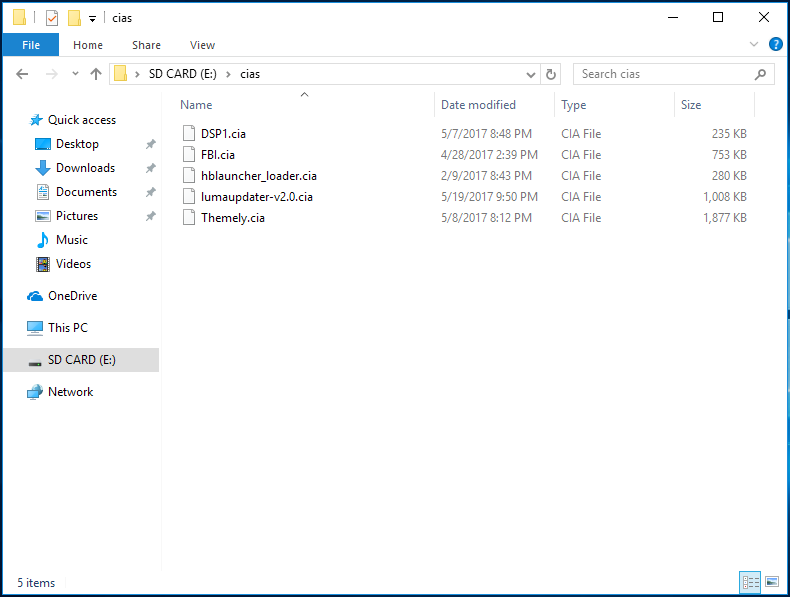
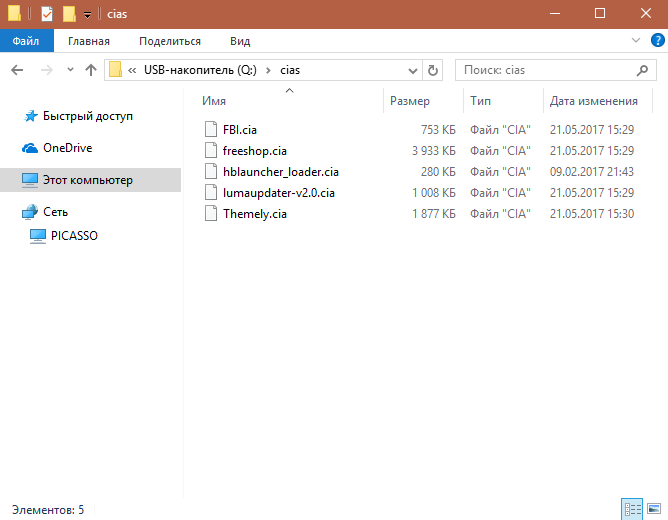
BUGFIXES

Changed region(s): [[0.0, 0.0, 1.0, 1.0]]

diff --git a/_pages/Site-Navigation.md b/_pages/Site-Navigation.md
@@ -1,8 +1,64 @@
 ---
+title: "Карта сайта" #
 layout: single-no-ads
 sitemap: false
 permalink: /site-navigation.html
-sidebar:
-  title: "Site Navigation"
-  nav: "site"
 ---
+
+
+{% capture notice-1 %}
+**Популярные страницы**
+
++ [Завершение установки](finalizing-setup)
++ [Использование SoundHax для запуска Hombrew Launcher](homebrew-launcher-soundhax)
++ [Установка boot9strap (Homebrew Launcher)](installing-boot9strap-homebrew-launcher)
+{% endcapture %}
+<div class="notice--info">{{ notice-1 | markdownify }}</div>
+
+{% capture notice-2 %}
+**Все страницы**
+
++ [9.2.0 CTRTransfer](9.2.0-ctrtransfer)
++ [F3 (Linux)](f3-linux)
++ [F3X (Mac)](f3x-mac)
++ [FAQ](faq)
++ [H2testw (Windows)](h2testw-windows)
++ [Homebrew Launcher (альтернативные методы запуска)](homebrew-launcher-alternatives)
++ [Homebrew Launcher (используя браузер)](homebrew-launcher-browser)
++ [NTR и Cubic Ninja](ntr-and-cubic-ninja)
++ [Благодарности](credits)
++ [Как включить русский язык в играх на приставке не европейского региона](lumalocaleswitcher)
++ [Главная страница](/)
++ [Дополнительный FAQ](faq-3ds)
++ [Завершение установки](finalizing-setup)
++ [Зачем реклама?](why-ads)
++ [Использование SoundHax для запуска Hombrew Launcher](homebrew-launcher-soundhax)
++ [Интегрирование FBI](fbi)
++ [Информация об OTP](otp)
++ [Использование GodMode9](godmode9-usage)
++ [Начнем (New 3DS)](get-started-new-3ds)
++ [Начнем (Old 3DS)](get-started-old-3ds)
++ [Начнем](get-started)
++ [Обновление Luma3DS](update-luma3ds)
++ [Обновление до boot9strap](updating-to-boot9strap)
++ [Обновление с помощью картриджа](cart-update)
++ [Перенос EmuNAND в SysNAND](move-emunand)
++ [Пожертвования](donations)
++ [Проблемы и их решения](troubleshooting)
++ [Расширения файлов (Windows)](file-extensions-windows)
++ [Смена региона](region-changing)
++ [Список полезных после прошивки инструкций](addons)
++ [Установка boot9strap (DSiWare)](installing-boot9strap-dsiware)
++ [Установка boot9strap (Hardmod)](installing-boot9strap-hardmod)
++ [Установка boot9strap (Homebrew Launcher)](installing-boot9strap-homebrew-launcher)
++ [Установка boot9strap (MSET)](installing-boot9strap-mset)
++ [Установка boot9strap (Браузер)](installing-boot9strap-browser)
++ [Установка boot9strap (Инъекция в игры DSiWare)](installing-boot9strap-dsiware-game-injection)
++ [Установка boot9strap (Инъекция в сохранения DSiWare)](installing-boot9strap-dsiware-save-injection)
++ [Установка boot9strap (Список уязвимых игр DSiWare)](installing-boot9strap-dsiware-game-injection-list)
++ [Установка и использование тем](themes)
++ [Установка и использование жетонов (badges)](badges)
++ [Установка приложений](games)
+
+{% endcapture %}
+<div class="notice--primary">{{ notice-2 | markdownify }}</div>

diff --git a/_pages/Get-Started-New-3ds.md b/_pages/Get-Started-New-3ds.md
@@ -1,15 +1,15 @@
-
+---
 title: "Начнем (New 3DS)"
 permalink: /get-started-new-3ds.html
 ---
 
-Выберите подходящую для вашей версии страницу из таблицы ниже.
+Выберите подходящую для вашей версии консоли страницу из таблицы ниже.
 {: .notice--primary}
 
 Обратите внимание, что столбцы "С" и "По" обозначают границы диапазона. Это означает, к примеру, что диапазон "с 9.0.0 по 9.2.0" включает в себя 9.0.0, 9.1.0 и 9.2.0.
 {: .notice--info}
 
-Обратите внимание, что последнее число вашей версии системы (после тире) относится к версии браузера. В настоящее время версия браузера не имеет значения для New 3DS в данном руководстве.
+Обратите внимание, что последнее число вашей версии системы (после дефиса) относится к версии браузера. В настоящее время версия браузера не имеет значения для New 3DS в данном руководстве.
 {: .notice--info}
 
 Любую версию системного ПО можно обновить на более высокую из этой же колонки [с помощью картриджа](cart-update) и после этого продолжать выполнять инструкцию.
@@ -18,7 +18,7 @@ permalink: /get-started-new-3ds.html
 Версия программного обеспечения вашего устройства отображается в правом нижнем углу верхнего экрана в приложении Системные настройки (System settings).
 {: .notice--success}
 
-Обратите внимание, что новый метод [установки boot9strap через hardmod)](installing-boot9strap-hardmod) работает на *всех устройствах, любого региона и версий*! Включая устройства CHN- и TWN-регионов, которые раньше считались невзлымываемыми!
+Обратите внимание, что новый метод [установки boot9strap через hardmod](installing-boot9strap-hardmod) работает на *всех устройствах, любого региона и версий*! Включая устройства CHN- и TWN-регионов, которые раньше считались невзлымываемыми!
 {: .notice--success}
 
 ![]({{ base_path }}/images/screenshots/system-version.png)

diff --git a/_pages/finalizing-setup.md b/_pages/finalizing-setup.md
@@ -33,6 +33,7 @@ sidebar:
 
 * Свежая версия [Luma3DS](https://github.com/AuroraWright/Luma3DS/releases/latest) *(`.7z`-архив)*
 * Свежая версия [Themely](https://github.com/ErmanSayin/Themely/releases/latest) *(`.cia` файл)*
+* Homebrew [Starter Kit](http://smealum.github.io/ninjhax2/starter.zip)
 * Свежая версия [hblauncher_loader](https://github.com/yellows8/hblauncher_loader/releases/latest)
 * Свежая версия [GodMode9](https://github.com/d0k3/GodMode9/releases/latest)
 * Свежая версия [FBI](https://github.com/Steveice10/FBI/releases/latest)
@@ -48,13 +49,16 @@ sidebar:
 1. Вставьте SD-карту в компьютер
 1. Создайте папку `cias` в корне SD-карты
 1. Создайте папку `hblauncherloader` в корне SD-карты, если таковой нет
+1. Удалите папку `3ds` из корня SD-карты, если таковая существует
+1. Скопируйте _содержимое_ папки `starter` из архива `starter.zip` в корень вашей SD-карты
 1. Скопируйте `hblauncher_loader.cia` из архива hblauncher_loader в папку `/cias/` в корне SD-карты
 1. Скопируйте `lumaupdater-v2.0.cia` из `.zip-архива` Luma3DS Updater в папку `/cias/` в корне SD-карты
 1. Скопируйте `FBI.cia` из архива FBI в папку `/cias/` в корне SD-карты
-1. Скопируйте `DSP1.cia` в папку `/cias/` в корне SD-карты
 1. Скопируйте `Themely.cia` в папку `/cias/` в корне SD-карты
+1. Скопируйте `freeshop.cia` в папку `/cias/` в корне SD-карты
 
     ![]({{ base_path }}/images/screenshots/cias-file-layout.png)
+	{: .text-center}
     {: .notice--info}
 
 1. Скопируйте файл `boot.firm` из `.7z-архива` Luma3DS в корень SD-карты
@@ -69,6 +73,7 @@ sidebar:
   + **USA:** `OLD-11-4-0-37-USA.bin`
 
     ![]({{ base_path }}/images/screenshots/finalizing-setup-file-layout.png)
+	{: .text-center}
     {: .notice--info}
 
 1. Если ваше устройство использует прошивку версии от 3.0.0 до 4.5.0, консоль не запустится до тех пор, пока вы вручную не скачаете нужные файлы прошивки:

diff --git a/_pages/get-started.md b/_pages/get-started.md
@@ -4,7 +4,7 @@ permalink: /get-started.html
 ---
 
 Эта страница содержит инструкции по установке boot9strap на *не взломанную* 3DS или 2DS. Если у вас уже установлен arm9loaderhax, и вы хотите обновиться до boot9strap, следуйте инструкциям в разделе [Обновление до boot9strap](updating-to-boot9strap).
-{: .notice--primary}
+{: .notice--warning}
 
 Цвет вашего устройства может отличаться от представленного на картинках, вам стоит обратить внимание на расположение кнопок и особенности каждого типа устройства, чтобы сделать правильный выбор.
 {: .notice}
@@ -20,9 +20,6 @@ permalink: /get-started.html
 
 Прежде чем начать, рекомендуется проверить свою SD-карту на ошибки с помощью [H2testw (Windows)](h2testw-windows), [F3 (Linux)](f3-linux), или [F3X (Mac)](f3x-mac)!
 {: .notice--warning}
-
-Обратите внимание, что можно увеличить изображения в этом руководстве кликая на них.
-{: .notice--info}
 
 Если вы пользователь Windows, то перед началом работ убедитесь, что в вашей системе включено отображение расширений файлов. Если вы не знаете как это сделать, следуйте этой инструкции: [Расширения файлов (Windows)](file-extensions-windows)!
 {: .notice--info}

diff --git a/_pages/addons/lumalocaleswitcher.md b/_pages/addons/lumalocaleswitcher.md
@@ -1,5 +1,5 @@
 ---
-title: "Как включить русский язык в играх на приставке не европейского региона"
+title: "Включение русского языка в играх на приставке не европейского региона"
 permalink: /lumalocaleswitcher.html
 sidebar:
   nav: "lumalocaleswitcher"

diff --git a/_pages/addons/Homebrew-Launcher-Browser.md b/_pages/addons/Homebrew-Launcher-Browser.md
@@ -85,5 +85,5 @@ sidebar:
 	
 ___
 
-Следующий шаг: [SafeCtrTransfer (Homebrew Launcher)](safectrtransfer-homebrew-launcher)
+Следующий шаг: [Установка boot9strap (Homebrew Launcher)](installing-boot9strap-homebrew-launcher)
 {: .notice--primary}

diff --git a/_pages/homebrew-launcher-alternatives.md b/_pages/homebrew-launcher-alternatives.md
@@ -1,5 +1,5 @@
 ---
-title: "Homebrew Launcher (альтернативные методы)"
+title: "Homebrew Launcher (альтернативные методы запуска)"
 permalink: /homebrew-launcher-alternatives.html
 sidebar:
   nav: "homebrew-launcher-alternatives"

diff --git a/_pages/addons/games.md b/_pages/addons/games.md
@@ -1,5 +1,5 @@
 ---
-title: "Как устанавливать приложения"
+title: "Установка приложений"
 permalink: /games.html
 sidebar:
   nav: "games"

diff --git a/_pages/Region-Changing.md b/_pages/Region-Changing.md
@@ -1,5 +1,5 @@
 ---
-title: "Смена региона "
+title: "Смена региона"
 permalink: /region-changing.html
 sidebar:
   nav: "region-changing"

diff --git a/_pages/move-emunand.md b/_pages/move-emunand.md
@@ -1,5 +1,5 @@
 ---
-title: "Перенос EmuNAND"
+title: "Перенос EmuNAND в SysNAND"
 permalink: /move-emunand.html
 sidebar:
   nav: "move-emunand"
